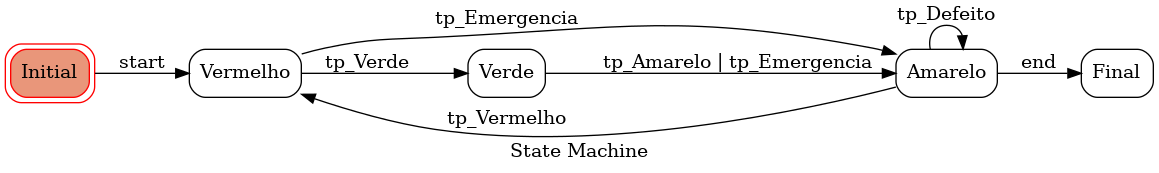
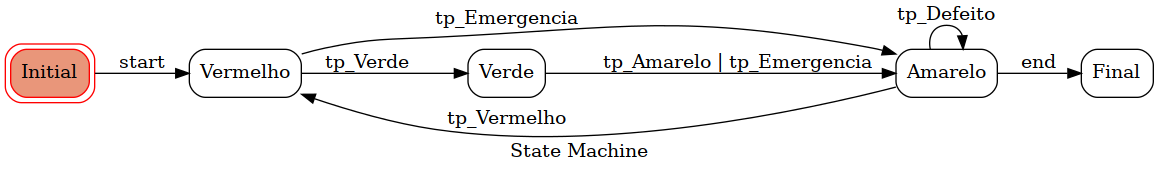
Demonstração de modos diferentes e executar a psm.py

diff --git a/python-statemachine/psm.py b/python-statemachine/psm.py
@@ -19,6 +19,8 @@ class TrafficLightIsolatedTransitions(StateMachine):
     end = Amarelo.to(Final)
 
     tp_Emergencia = Verde.to(Amarelo) | Vermelho.to(Amarelo)
+    tp_Normal = tp_Verde | tp_Vermelho | tp_Amarelo
+
     tp_Defeito = Amarelo.to(Amarelo)
 
     def before_tp_Emergência(self):
@@ -61,7 +63,7 @@ class TrafficLightIsolatedTransitions(StateMachine):
 
 machine = TrafficLightIsolatedTransitions()
 
-img_path = "python-statemachine/psm.png"
+img_path = "python-statemachine/psm3.png"
 machine._graph().write_png(img_path)
 
 machine.start()
@@ -73,6 +75,7 @@ while True:
         else:
             machine.tp_Defeito()
     else:
+        # machine.tp_Normal() # Desse jeito, podemos deletar tudo pra baixo e deixar só essa linha
         if(machine.current_state.id == 'Vermelho'):
             machine.tp_Verde()  
         elif(machine.current_state.id == 'Amarelo'):
